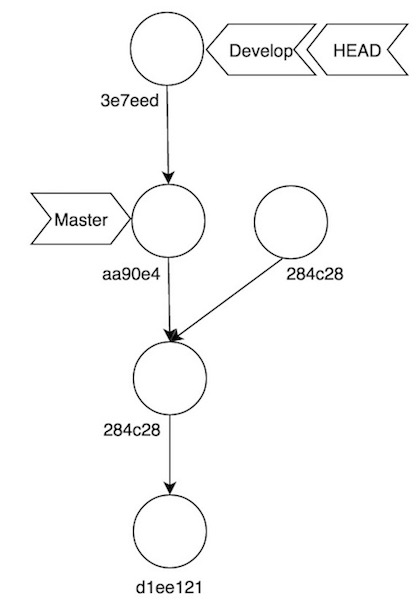
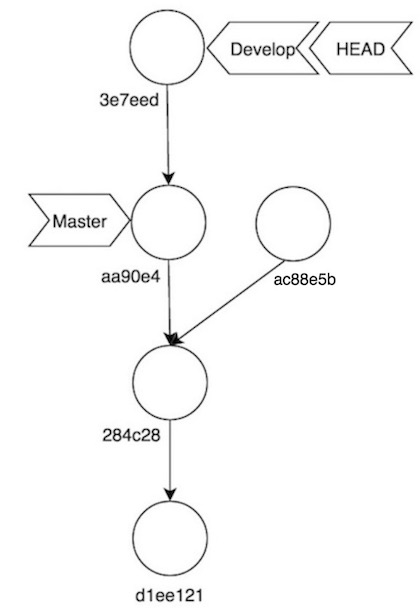
Corregida errata

diff --git a/_posts/2017-03-11-como-funciona-git-3.md b/_posts/2017-03-11-como-funciona-git-3.md
@@ -197,11 +197,11 @@ Nuestro árbol de Git queda así:
 
 ![Git](/public/pictures/git-internals/git-rebase-1.jpg)
 
-No he dejado el commit `284c28` por error. Este es el commit que anteriormente pertenecia a `develop`, pero ha dejado de hacerlo tras el rebase, momento en que ha sido reemplazado por `3e7eed`, que tiene el mismo contenido pero distinto ancestro. El hecho de que tengamos un commit sin ninguna rama que lo referencia significa que en algún momento el recolector de basura de Git lo eliminará de su base de datos. Pero si no queremos que eso ocurra siempre podemos crear una rama apuntando a él, recordad que una rama no es más que un puntero a un commit. Es decir, podríamos hacer esto:
+No he dejado el commit `ac88e5b` por error. Este es el commit que anteriormente pertenecia a `develop`, pero ha dejado de hacerlo tras el rebase, momento en que ha sido reemplazado por `3e7eed`, que tiene el mismo contenido pero distinto ancestro. El hecho de que tengamos un commit sin ninguna rama que lo referencia significa que en algún momento el recolector de basura de Git lo eliminará de su base de datos. Pero si no queremos que eso ocurra siempre podemos crear una rama apuntando a él, recordad que una rama no es más que un puntero a un commit. Es decir, podríamos hacer esto:
 
 {% highlight text %}
-$ git checkout 284c28
-Note: checking out '284c28'.
+$ git checkout ac88e5b
+Note: checking out 'ac88e5b'.
 
 You are in 'detached HEAD' state. You can look around, make experimental
 changes and commit them, and you can discard any commits you make in this
@@ -212,7 +212,7 @@ do so (now or later) by using -b with the checkout command again. Example:
 
   git checkout -b <new-branch-name>
 
-HEAD is now at 284c288... Second commit
+HEAD is now at ac88e5b... Second commit
 
 $ git checkout -b backup
 Switched to a new branch 'backup'
